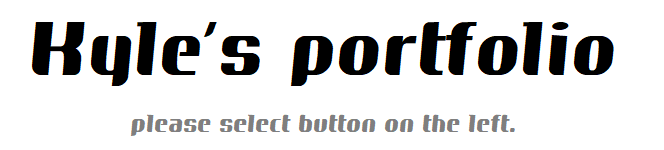
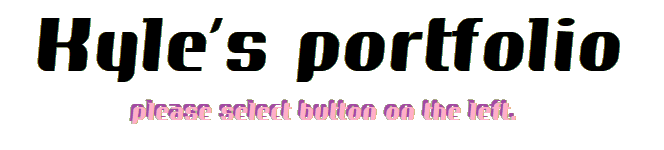
fix header space

Changed region(s): [[0.0301, 0.1067, 0.9337, 0.5867], [0.1807, 0.6667, 0.7831, 0.9067]]

diff --git a/index.html b/index.html
@@ -224,7 +224,10 @@
       $('#fullpage').fullpage({
         anchors: ['PROFILE', 'ARTWORKS','ACHIVEMENT','PROGRAM'],
         menu: '#menu',
-        sectionsColor: ['#53B09A','#E65032', '#FF9F40', '#FFCC66']
+        sectionsColor: ['#53B09A','#E65032', '#FF9F40', '#FFCC66'],
+        fixedElements:	'#header',
+        paddingTop: '150px',
+        resize: 'true',
       });
     });
   </script>

diff --git a/css/jquery.fullpage.min.css b/css/jquery.fullpage.min.css
@@ -6,7 +6,7 @@
  * Copyright (C) 2013 alvarotrigo.com - A project by Alvaro Trigo
  */
 .fp-enabled body,html.fp-enabled{
-    margin:75px 0px 0px 0px;
+    margin:0;
     padding:0;
     overflow:hidden;
     -webkit-tap-highlight-color:rgba(0,0,0,0)}

diff --git a/css/style.css b/css/style.css
@@ -194,5 +194,6 @@ header{
 
 
 .artworks{
+    height: 70%;
     box-shadow: 4px 4px 4px;
 }
